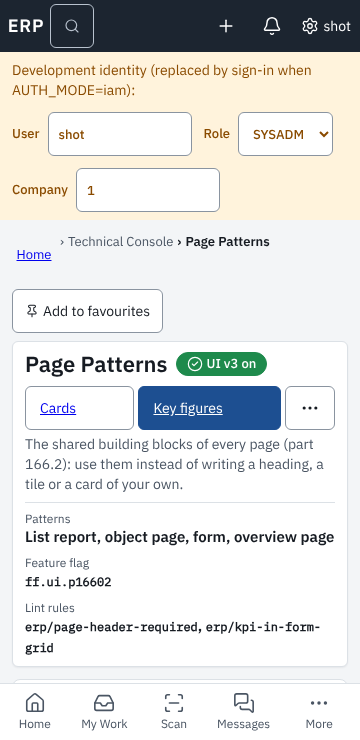
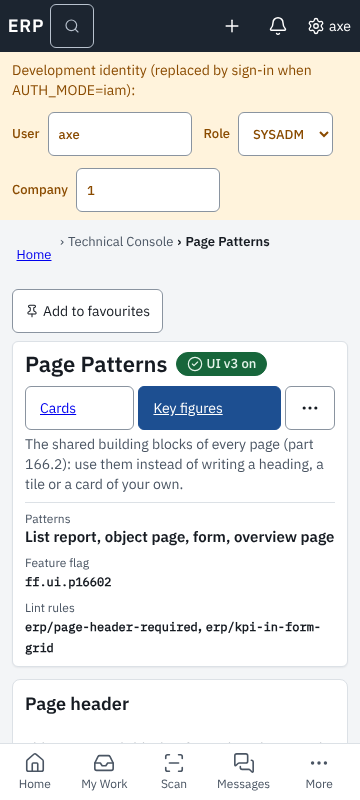
Part 166.2: solid badge keeps contrast, completion report draft, D-671
Claude-Session: https://claude.ai/code/session_018cC1Uy9Dqx6uAjjnp4iMwK

diff --git a/src/client/ui-v3.css b/src/client/ui-v3.css
@@ -58,13 +58,13 @@
 .ui-section { margin-block: var(--erp-space-4); min-width: 0; }
 .ui-section-head { display: flex; flex-wrap: wrap; align-items: center; gap: var(--erp-space-3); justify-content: space-between; }
 
-.badge-solid.tone-neutral { background: var(--erp-color-status-neutral-solid); }
-.badge-solid.tone-info { background: var(--erp-color-status-info-solid); }
-.badge-solid.tone-success { background: var(--erp-color-status-success-solid); }
-.badge-solid.tone-warning { background: var(--erp-color-status-warning-solid); }
-.badge-solid.tone-error { background: var(--erp-color-status-error-solid); }
-.badge-solid.tone-muted { background: var(--erp-color-status-muted-solid); }
-.badge-solid { color: var(--erp-color-text-on-primary); }
+.badge-solid.tone-neutral { background: var(--erp-color-status-neutral-fg); color: var(--erp-color-status-neutral-bg); border-color: var(--erp-color-status-neutral-fg); }
+.badge-solid.tone-info { background: var(--erp-color-status-info-fg); color: var(--erp-color-status-info-bg); border-color: var(--erp-color-status-info-fg); }
+.badge-solid.tone-success { background: var(--erp-color-status-success-fg); color: var(--erp-color-status-success-bg); border-color: var(--erp-color-status-success-fg); }
+.badge-solid.tone-warning { background: var(--erp-color-status-warning-fg); color: var(--erp-color-status-warning-bg); border-color: var(--erp-color-status-warning-fg); }
+.badge-solid.tone-error { background: var(--erp-color-status-error-fg); color: var(--erp-color-status-error-bg); border-color: var(--erp-color-status-error-fg); }
+.badge-solid.tone-muted { background: var(--erp-color-status-muted-fg); color: var(--erp-color-status-muted-bg); border-color: var(--erp-color-status-muted-fg); }
+/* solid: the soft badge's pair turned round (text colour as the fill), so it keeps the contrast checked in all three themes */
 .badge-outline { background: transparent; }
 .badge-dot { background: transparent; border-color: transparent; padding-inline: 0; color: var(--erp-color-text-primary); }
 .badge-dot .badge-dot { display: inline-block; width: 8px; height: 8px; border-radius: 50%; padding: 0; }

diff --git a/docs/erp/COMPLETION/166.2.md b/docs/erp/COMPLETION/166.2.md
@@ -1,0 +1,79 @@
+# Part 166.2 completion: UI v3 rollout — Fiori page patterns on every built page
+
+Part: 166.2. Date: 2026-11-16. Module M03 (pages of every module). Feature flag `ff.ui.p16602` (OFF by default; ON in development and test).
+Depends on 22.09 and 166.1.
+
+Status: **Ready for review, not accepted.** The open items are in section 7.
+
+## 1. Discovery
+`docs/erp/DISCOVERY/166.2.md`: each finding reproduced on `main` (d596623) and its decision (Reuse / Repair / Extend / New). The standard
+`14_UI_V3_DESIGN_AND_MOBILE_STANDARD.md`, the verification report and the Fiori references are not in the repository (D-664), and the "first UI v3
+layer" the prompt counts on was not there either: `src/client/ui-v3.css` is new in this part and there is no text-size setting (D-665).
+There are **633** registered pages, not 361; all of them are in scope.
+
+## 2. What was built
+| Piece | Where | Notes |
+|---|---|---|
+| PageHeader | `src/client/platform/design/PageHeader.jsx` | title (heading id kept), breadcrumb, status, subtitle, link row, key facts, primary and secondary actions, "…" menu, visually hidden mode |
+| KpiRow / KpiTile | `platform/design/Kpi.jsx`, `kpi-format.js` | label, value, unit, kind → icon, tone, trend against the previous period, link or filter button; ₹ amounts of a lakh or more as ₹ 4.08 L / ₹ 2.43 Cr with the exact amount in the tooltip and for screen readers |
+| Card / CardGrid / Section | `platform/design/Card.jsx` | title, subtitle, "n of N", menu, body, footer "View all ›" |
+| StatusBadge variants | `platform/design/StatusBadge.jsx` | soft (as before), solid, outline, dot; sizes sm and md |
+| EmptyState | `platform/feedback/states.jsx` | reused as it is (illustration and action, 03.04) |
+| Chart theme | `platform/charts/theme.js` | `--ui-c1…c8` from the design tokens, Indian numbers, empty-chart state; the chart library uses it |
+| KPI icons | `src/shared/design/icon-registry.json` group `kpi` | money, quantity, count, percent, time, safety, quality, people, risk, capacity |
+| UI v3 styles | `src/client/ui-v3.css` | structure always; the Fiori look under `:root[data-ui-v3]`, which the shell sets while `ff.ui.p16602` is ON |
+| Gallery | `/admin/design-system/patterns` (Page Patterns) | every component, the three themes side by side |
+| Codemod | `scripts/ui_v3_codemod.mjs` | moved the pages once; re-runnable (`--check`) |
+| Lint rules | `eslint-rules/page-header-required.js`, `eslint-rules/kpi-in-form-grid.js` | in `eslint.config.js` |
+| Page audit | `scripts/ui_v3_audit.mjs` → `docs/erp/UI_V3_PAGE_AUDIT.md` | pattern, components, status, reason and closing part for each of the 633 pages |
+
+## 3. Before and after
+| Finding | Before (`main`) | After |
+|---|---|---|
+| U-01 | 878 hand-written `<h1>` in 563 files, no shared header | every page renders PageHeader: 0 `<h1>` outside it (`erp/page-header-required`); `e2e/ui-v3.spec.js` finds one heading inside `[data-page-header]` (or a state's heading) on all 633 pages, desktop and phone |
+| U-02 | 65 key figures as `<strong>` in `form-grid > mdm-panel`, 23 files (26 page components) | all 65 are KpiTiles in KpiRows; the 28 files using the old `Tile` get the same tile; `erp/kpi-in-form-grid` reports 0; ₹ 10,00,000.00 shows as ₹ 10.00 L |
+| U-03 | dashboard widgets are plain frames with "Open" | every widget is a card with "View all ›" that adds the dashboard's project and site to the address (`withDashFilters`); QS and procurement queues are cards with "n of N" |
+| U-04 | Users and other lists have their own filter row | audited: 69 hand-made lists are documented exceptions (D-666, closed in 166.6); they have PageHeader and the shared phone cards |
+| U-05 | ObjectPage drew its own header | ObjectPage's header is PageHeader (status chips, key facts, actions, anchor tabs with counts, sticky action bar on a phone); 190 other record views have PageHeader and tiles, their tab rows remain (D-667) |
+| U-06 | the attendance register became 31 labelled lines per person on a phone | register, permission matrix, Gantt planner and the line-item grid are `data-no-cards` (tables, scrolling in their box); the register adds a phone list of people with totals and days |
+| U-07 | tiles had no icon | each tile shows the registry icon of its kind |
+| U-08 | `var(--erp-chart-N)` only; empty charts drew empty axes | one theme (`--ui-c1…c8`), empty state; module SVG charts recorded (D-668) |
+
+Screenshots (`docs/erp/screenshots/166.2/`): `before-after-control-tower-desktop.png`, `before-after-qs-dashboard-mobile.png`,
+`page-patterns-desktop.png`, `page-patterns-mobile.png`, `before-home-desktop.png`. The module screenshots that the end-to-end specs save
+(`docs/erp/screenshots/<module>/desktop-*.png` and `mobile-*.png`, 262 files) were refreshed by the run of section 4; their versions on `main` are the "before".
+
+## 4. Tests
+| Check | Result |
+|---|---|
+| `npm run lint` | PASS (0 problems) |
+| `npm run typecheck` | PASS (0 errors) |
+| `tests/ui-v3.test.js` (new: abbreviation, trend, icons, chart theme, both lint rules, every client file, dashboard filters) | 8 of 8 |
+| `npm test` | 221 of 224 files pass. The 3 others (`qa-ir`, `hse-safety`, `proc-mrp`, 4 tests) fail on `main` too, only between 18:30 and 24:00 UTC: with the clock at 06:00 UTC all 15 tests of the three files pass (D-670) |
+| `e2e/ui-v3.spec.js` desktop (T-01, T-02) | PASS, 633 pages, 11.6 min |
+| `e2e/ui-v3.spec.js` mobile (T-01…T-04) | PASS, 633 pages at 360 px and again with the text at 125 %, 11.9 min. The first run found 54 pages; fixed in `ui-v3.css` (long words break, grid columns shrink, fields fit the column) and by marking the line grid `data-no-cards` |
+| The specs of the touched areas (33 files: billing, contracts, QA, procurement analytics, HSE safety, RMC costing, plant capacity, dashboards, object page, shell, forms, design system, migration tracker, users, roles, alerts, attendance), desktop and mobile | 113 passed, 6 skipped by design, 1 failed: `forms.spec.js` T-04 typed the required-by date 15-11-2026, now past; the date is worked out from today and the spec passes 4 of 4 |
+| `e2e/pages.spec.js` (03.10 checklist: one heading, title, no sideways scroll at 360/768/1280, axe) | 633 pages; one finding, on the new gallery: the solid badge's contrast. Fixed (the soft badge's pair turned round); axe finds nothing serious on the gallery in light, dark and high contrast at 1280 and 360 |
+| `npm run test:visual` | see section 5 |
+| `npm run erp:regression` (stages without the browser) | 13 of 14 pass; nav-check fails on `main` alike (`/proc/quotation-entry` permission, D-671) |
+
+## 5. Visual baseline
+VISUAL_PLACEHOLDER
+
+## 6. Acceptance criteria
+| Criterion | Result | Evidence |
+|---|---|---|
+| AC-01 every finding fixed or delivered, with evidence | PASS, with the exceptions of D-666…D-668 recorded | sections 3 and 4; the audit |
+| AC-02 no regression | PASS for what this part touched | section 4; golden outputs unchanged; the failures found are older than this part and recorded |
+| AC-03 every role sees and does what it did before | PASS | no server, permission or route changed; `npm run erp:regression` route-check and permission-audit pass; the role specs (`roles`, `users`, `shell`) pass on both viewports |
+| AC-Z1 typecheck 0, lint clean, suites green | PASS except the pre-existing D-670 and D-671 | section 4 |
+| AC-Z2 pages meet the UI v3 standard §4 and §5 | NOT VERIFIED item by item | the standard is not in the repository (D-664); the machine checks of the standard's intent (header, tiles, phone fit, contrast) pass on all 633 pages |
+
+## 7. Known limitations
+- D-664 the UI v3 standard and the references were not supplied; D-665 no text-size setting (T-04 uses the browser's text size).
+- D-666 69 hand-made lists (Users among them) are not on ListReport; D-667 190 record views keep their own tabs; D-668 22 module SVG charts draw their own legends; D-669 33 hand-made empty states.
+- D-670 four server tests depend on the time of day (older than this part); D-671 the navigation check of `/proc/quotation-entry` (older than this part).
+- The full `npx playwright test` of every spec was not run in one process (166.1 found it stops at `partners-screenshots` on this machine); the specs of the areas this part touched were, on both viewports, and the two crawlers cover every page.
+
+## 8. Data changes
+One reference-seed migration, `20261209000327_seed_ui_p16602` (up and down): the flag, the Page Patterns navigation entry, its tracker row. No table changed. `DB_CHANGES.md` updated.

diff --git a/docs/erp/DEFECTS.md b/docs/erp/DEFECTS.md
@@ -674,3 +674,4 @@ Register of known gaps. Severity: Critical, High, Medium, Low. The scan output o
 | D-668 | UI | 22 module pages (Gantt, histogram, S-curves, control charts, delay and variance charts, scorecards …) draw their own SVG charts from the design tokens instead of the chart library, so their legends and tooltips differ; the chart library itself uses the one theme. | Low | The charts predate the library | 166.2 | Open | 166.2 | — |
 | D-669 | UI | 33 hand-made empty states (`div.empty-state`) remain beside the shared EmptyState with illustration and action. | Low | Built before 03.04 | 166.2 | Open | 166.2 | — |
 | D-670 | Dates | Between 18:30 and 24:00 UTC (00:00–05:30 IST of the next day) four server tests fail on `main` and after 166.2 alike: `qa-ir` (ageDays 1 for 0, due count 11 for 10), `hse-safety` (inspection schedule next date) and `proc-mrp` (shortage week). The services mix the UTC date (`toISOString().slice(0, 10)`) with the IST business date; with the clock pinned to 06:00 UTC all 15 tests of the three files pass. | Medium | UTC date used where the IST business date is meant | 166.2 | Open | 166.2 | — |
+| D-671 | Navigation | `npm run erp:regression` stage nav-check fails on `main` and after 166.2 alike: `/proc/quotation-entry` is `proc.quotation.view` in the client route (`src/client/modules/proc/index.js`) but `proc.quotation.create` in its navigation entry (migration 20261201000211). Choosing one changes who may open the page, so it is left to the owner of 15.03. | Medium | The two were seeded apart in 15.03 | 15.03 | Open | 15.03 | G4 — Execution Gate |

diff --git a/docs/erp/DEFECTS_BY_PART.md b/docs/erp/DEFECTS_BY_PART.md
@@ -2,7 +2,7 @@
 
 Generated by `node scripts/defects_by_part.mjs` from `DEFECTS.md` and `PROGRESS.csv`; do not edit by hand. A part prompt lists the defects of its own section and closes them or moves them with a reason.
 
-670 defects, 653 open, 127 target parts.
+671 defects, 654 open, 127 target parts.
 
 ## 00.03 (6)
 
@@ -604,9 +604,10 @@ Generated by `node scripts/defects_by_part.mjs` from `DEFECTS.md` and `PROGRESS.
 
 - **D-392** (Medium, Quantity take-off): MRP (15.02), the BOQ of the project (10.04) and steel procurement are not built: the requirements are stored and published (`est.takeoff.released`, `est.bbs.released`) with no consumer yet; the quantities reach an estima…
 
-## 15.03 — G4 — Execution Gate (1)
+## 15.03 — G4 — Execution Gate (2)
 
 - **D-511** (Low, RFQ): A vendor link is relative when `PUBLIC_URL` is not set, so it is unusable outside the application until the company sets it. A reminder replaces the vendor link, so an older message stops working.
+- **D-671** (Medium, Navigation): `npm run erp:regression` stage nav-check fails on `main` and after 166.2 alike: `/proc/quotation-entry` is `proc.quotation.view` in the client route (`src/client/modules/proc/index.js`) but `proc.quotation.create` in its…
 
 ## 15.04 — G4 — Execution Gate (1)
 
